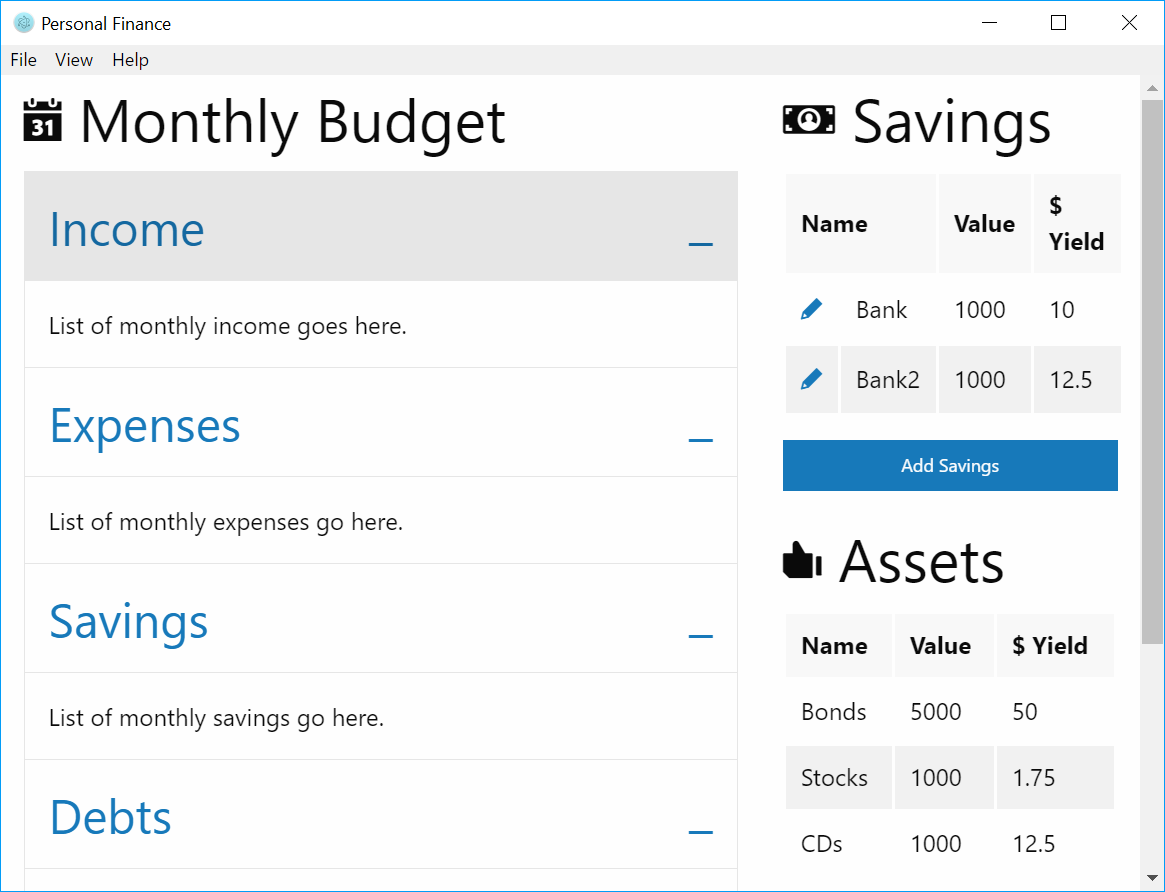
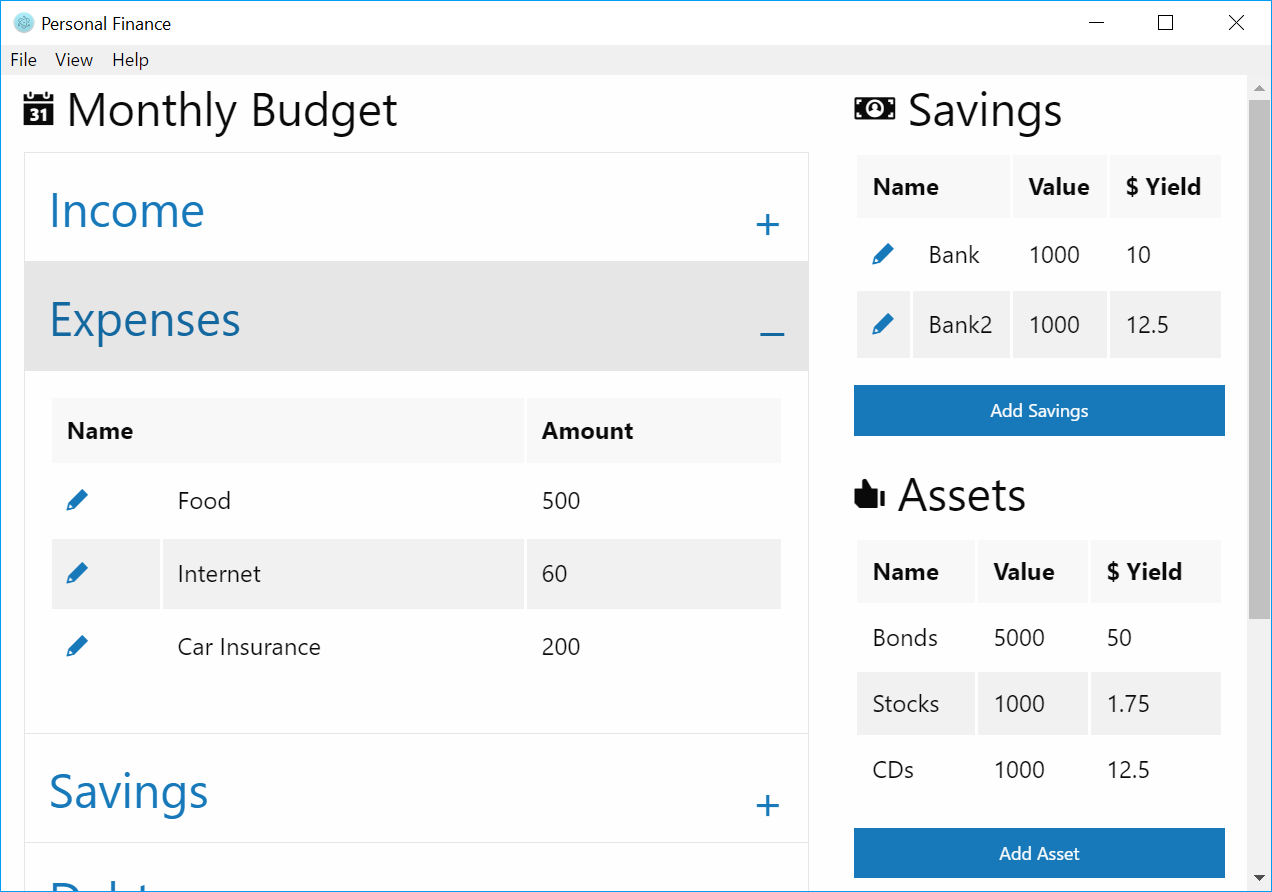
save monthly lists

diff --git a/src/index.html b/src/index.html
@@ -15,7 +15,7 @@
 
     <div class="row">
         <div class="small-12 medium-8 large-9 columns">
-            <h2><span class="fi-calendar"></span> Monthly Budget</h2>
+            <h3><span class="fi-calendar"></span> Monthly Budget</h3>
 
 
             <ul class="accordion" data-accordion>
@@ -23,28 +23,132 @@
                 <li class="accordion-item is-active" data-accordion-item>
                     <a href="#" class="accordion-title">Income</a>
                     <div class="accordion-content" data-tab-content>
-                        List of monthly income goes here.
+    
+
+  <table>
+                <thead>
+                    <tr>
+                      
+                        <th colspan="2">Name</th>
+                        <th>Amount</th>
+          
+                    </tr>
+                </thead>
+                <tbody data-bind="foreach: monthlyincome">
+                    <tr>
+                        <td>
+                            <a data-open="savingsModal">
+                                <span class="fi-pencil size-18"></span>
+                            </a>
+                        </td>
+                        <td data-bind="text: name"></td>
+                        <td data-bind="text: amount"></td>
+
+                    </tr>
+                    
+                </tbody>
+
+                
+            </table>
+
                     </div>
                 </li>
 
                 <li class="accordion-item is-active" data-accordion-item>
                     <a href="#" class="accordion-title">Expenses</a>
                     <div class="accordion-content" data-tab-content>
-                        List of monthly expenses go here.
+        
+
+        <table>
+                <thead>
+                    <tr>
+                      
+                        <th colspan="2">Name</th>
+                        <th>Amount</th>
+          
+                    </tr>
+                </thead>
+                <tbody data-bind="foreach: monthlyexpenses">
+                    <tr>
+                        <td>
+                            <a data-open="savingsModal">
+                                <span class="fi-pencil size-18"></span>
+                            </a>
+                        </td>
+                        <td data-bind="text: name"></td>
+                        <td data-bind="text: amount"></td>
+
+                    </tr>
+                    
+                </tbody>
+
+                
+            </table>
                     </div>
                 </li>
 
                 <li class="accordion-item is-active" data-accordion-item>
                     <a href="#" class="accordion-title">Savings</a>
                     <div class="accordion-content" data-tab-content>
-                        List of monthly savings go here.
+      <table>
+                <thead>
+                    <tr>
+                      
+                        <th colspan="2">Name</th>
+                        <th>Amount</th>
+          
+                    </tr>
+                </thead>
+                <tbody data-bind="foreach: monthlysavings">
+                    <tr>
+                        <td>
+                            <a data-open="savingsModal">
+                                <span class="fi-pencil size-18"></span>
+                            </a>
+                        </td>
+                        <td data-bind="text: name"></td>
+                        <td data-bind="text: amount"></td>
+
+                    </tr>
+                    
+                </tbody>
+
+                
+            </table>
                     </div>
                 </li>
 
                 <li class="accordion-item is-active" data-accordion-item>
                     <a href="#" class="accordion-title">Debts</a>
                     <div class="accordion-content" data-tab-content>
-                        List of monthly debts go here.
+              
+
+
+              <table>
+                <thead>
+                    <tr>
+                      
+                        <th colspan="2">Name</th>
+                        <th>Amount</th>
+          
+                    </tr>
+                </thead>
+                <tbody data-bind="foreach: monthlydebts">
+                    <tr>
+                        <td>
+                            <a data-open="savingsModal">
+                                <span class="fi-pencil size-18"></span>
+                            </a>
+                        </td>
+                        <td data-bind="text: name"></td>
+                        <td data-bind="text: amount"></td>
+
+                    </tr>
+                    
+                </tbody>
+
+                
+            </table>
                     </div>
                 </li>
 
@@ -54,7 +158,7 @@
         </div>
 
         <div class="small-12 medium-4 large-3 columns">
-            <h2><span class="fi-dollar-bill"></span> Savings</h2>
+            <h3><span class="fi-dollar-bill"></span> Savings</h3>
 
             <table>
                 <thead>
@@ -68,7 +172,7 @@
                 <tbody data-bind="foreach: savings">
                     <tr>
                         <td>
-                            <a data-open="exampleModal1">
+                            <a data-open="savingsModal">
                                 <span class="fi-pencil size-18"></span>
                             </a>
                         </td>
@@ -81,9 +185,9 @@
 
                 
             </table>
-            <a class="button small expanded">Add Savings</a>
+            <a class="button small expanded" data-open="savingsModal">Add Savings</a>
 
-            <h2><span class="fi-like"></span> Assets</h2>
+            <h3><span class="fi-like"></span> Assets</h3>
 
             <table>
                 <thead>
@@ -101,8 +205,9 @@
                     </tr>
                 </tbody>
             </table>
+            <a class="button small expanded" data-open="assetsModal">Add Asset</a>
 
-            <h2><span class="fi-dislike"></span> Debts</h2>
+            <h3><span class="fi-dislike"></span> Debts</h3>
 
             <table>
                 <thead>
@@ -120,12 +225,14 @@
                     </tr>
                 </tbody>
             </table>
+
+            <a class="button small expanded" data-open="debtsModal">Add Debt</a>
         </div>
     </div>
 
     <!-- Modals -->
 
-    <div class="reveal" id="exampleModal1" data-reveal>
+    <div class="reveal" id="savingsModal" data-reveal>
         <h2>Savings</h2>
         <p>
 
@@ -160,6 +267,78 @@
   </button>
     </div>
 
+
+
+ <div class="reveal" id="assetsModal" data-reveal>
+        <h2>Assets</h2>
+        <p>
+
+            <div class="row">
+                <div class="small-12 columns">
+                    <label>Name
+        <input type="text" placeholder="Bonds">
+      </label>
+                </div>
+                <div class="small-12 columns">
+                    <label>Value
+        <input type="text" placeholder="5000">
+      </label>
+                </div>
+
+                <div class="small-12 columns">
+                    <label>Dollar Yield
+        <input type="text" placeholder="50">
+      </label>
+                </div>
+                <div class="small-12 columns">
+                    <button type="button" class="button expanded">Save</button>
+                    <button type="button" class="alert button expanded">Delete</button>
+                </div>
+            </div>
+
+
+        </p>
+
+        <button class="close-button" data-close aria-label="Close modal" type="button">
+    <span aria-hidden="true">&times;</span>
+  </button>
+    </div>
+
+
+ <div class="reveal" id="debtsModal" data-reveal>
+        <h2>Debts</h2>
+        <p>
+
+            <div class="row">
+                <div class="small-12 columns">
+                    <label>Name
+        <input type="text" placeholder="Mortgage">
+      </label>
+                </div>
+                <div class="small-12 columns">
+                    <label>Balance
+        <input type="text" placeholder="200000">
+      </label>
+                </div>
+
+                <div class="small-12 columns">
+                    <label>Rate
+        <input type="text" placeholder="3.875">
+      </label>
+                </div>
+                <div class="small-12 columns">
+                    <button type="button" class="button expanded">Save</button>
+                    <button type="button" class="alert button expanded">Delete</button>
+                </div>
+            </div>
+
+
+        </p>
+
+        <button class="close-button" data-close aria-label="Close modal" type="button">
+    <span aria-hidden="true">&times;</span>
+  </button>
+    </div>
 
     <link rel="stylesheet" href="./css/foundation-icons.css" />
 

diff --git a/src/renderer.js b/src/renderer.js
@@ -7,6 +7,11 @@ const JsonDB = require("node-json-db");
 var db = new JsonDB("mydata", true, true);
 var viewModel = {};
 
+viewModel.monthlyincome = ko.observableArray(db.getData("/monthly-income"));
+viewModel.monthlyexpenses = ko.observableArray(db.getData("/monthly-expenses"));
+viewModel.monthlysavings = ko.observableArray(db.getData("/monthly-savings"));
+viewModel.monthlydebts = ko.observableArray(db.getData("/monthly-debts"));
+
 viewModel.savings = ko.observableArray(db.getData("/savings"));
 viewModel.assets = ko.observableArray(db.getData("/assets"));
 viewModel.debts = ko.observableArray(db.getData("/debts"));

diff --git a/src/main.js b/src/main.js
@@ -91,7 +91,7 @@ function createWindow() {
   mainWindow.loadURL(`file://${__dirname}/index.html`);
 
   // Open the DevTools.
-  mainWindow.webContents.openDevTools();
+  // mainWindow.webContents.openDevTools();
 
 
   Menu.setApplicationMenu(menu);
